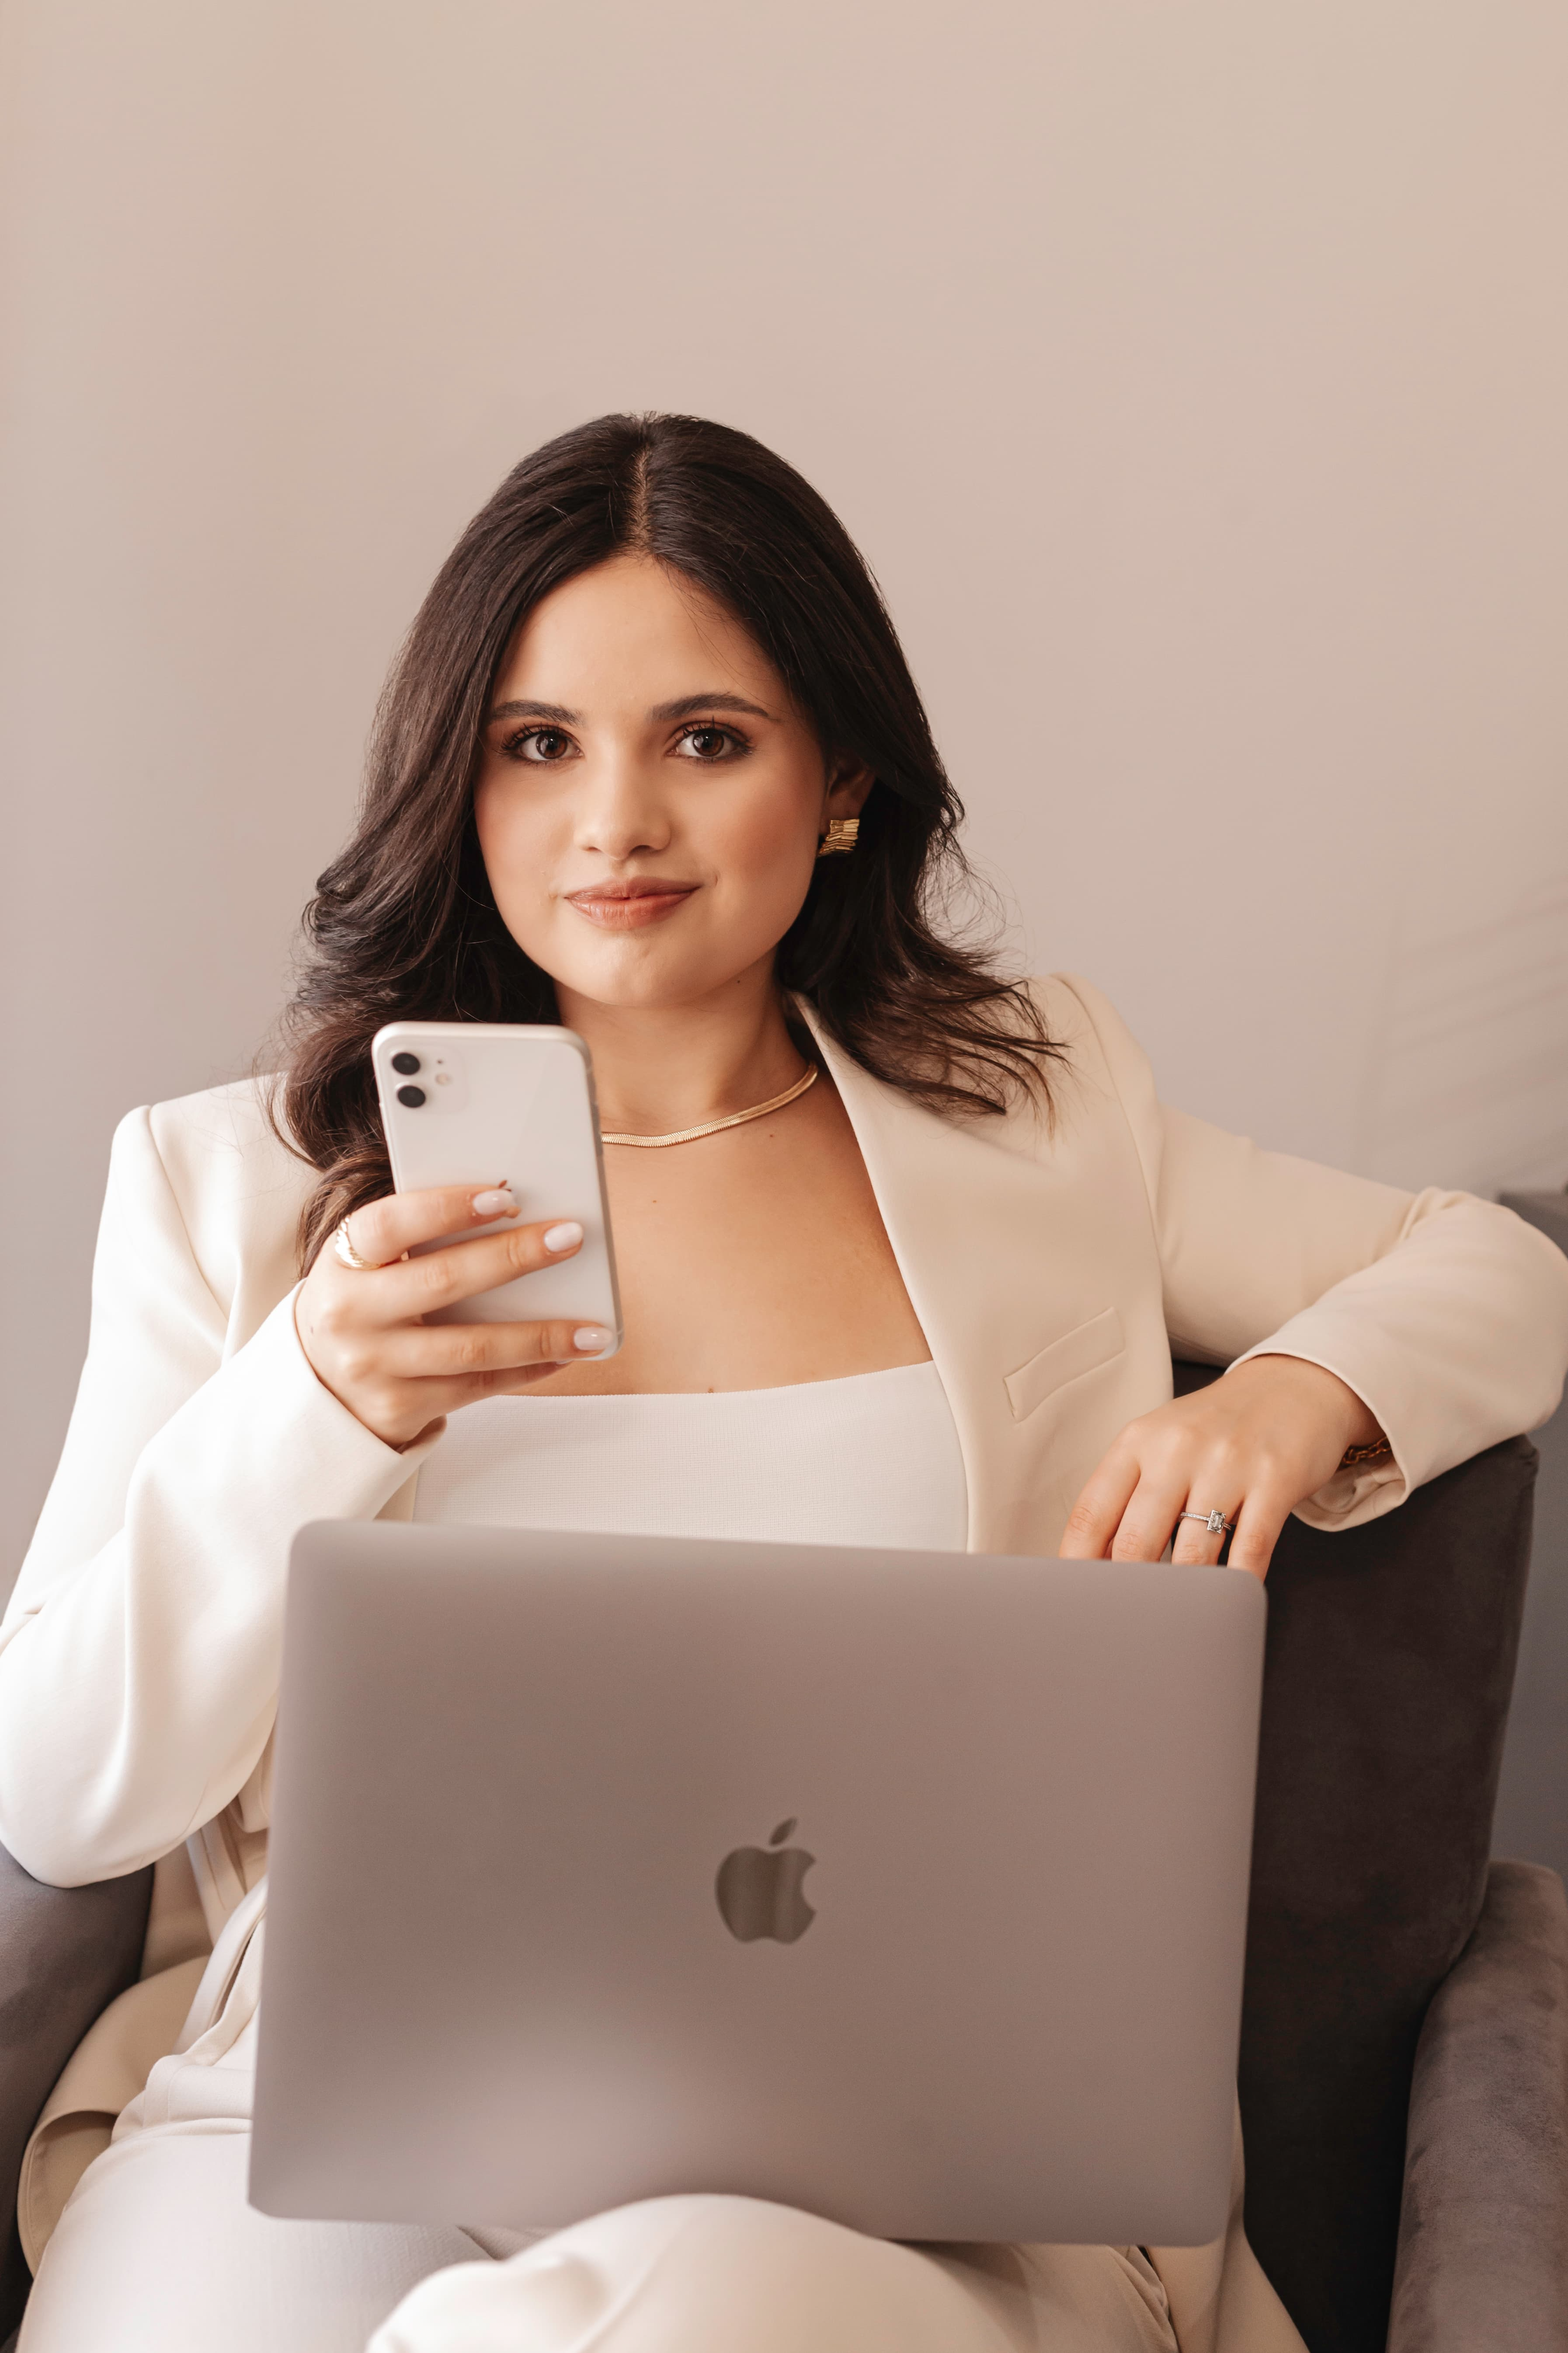
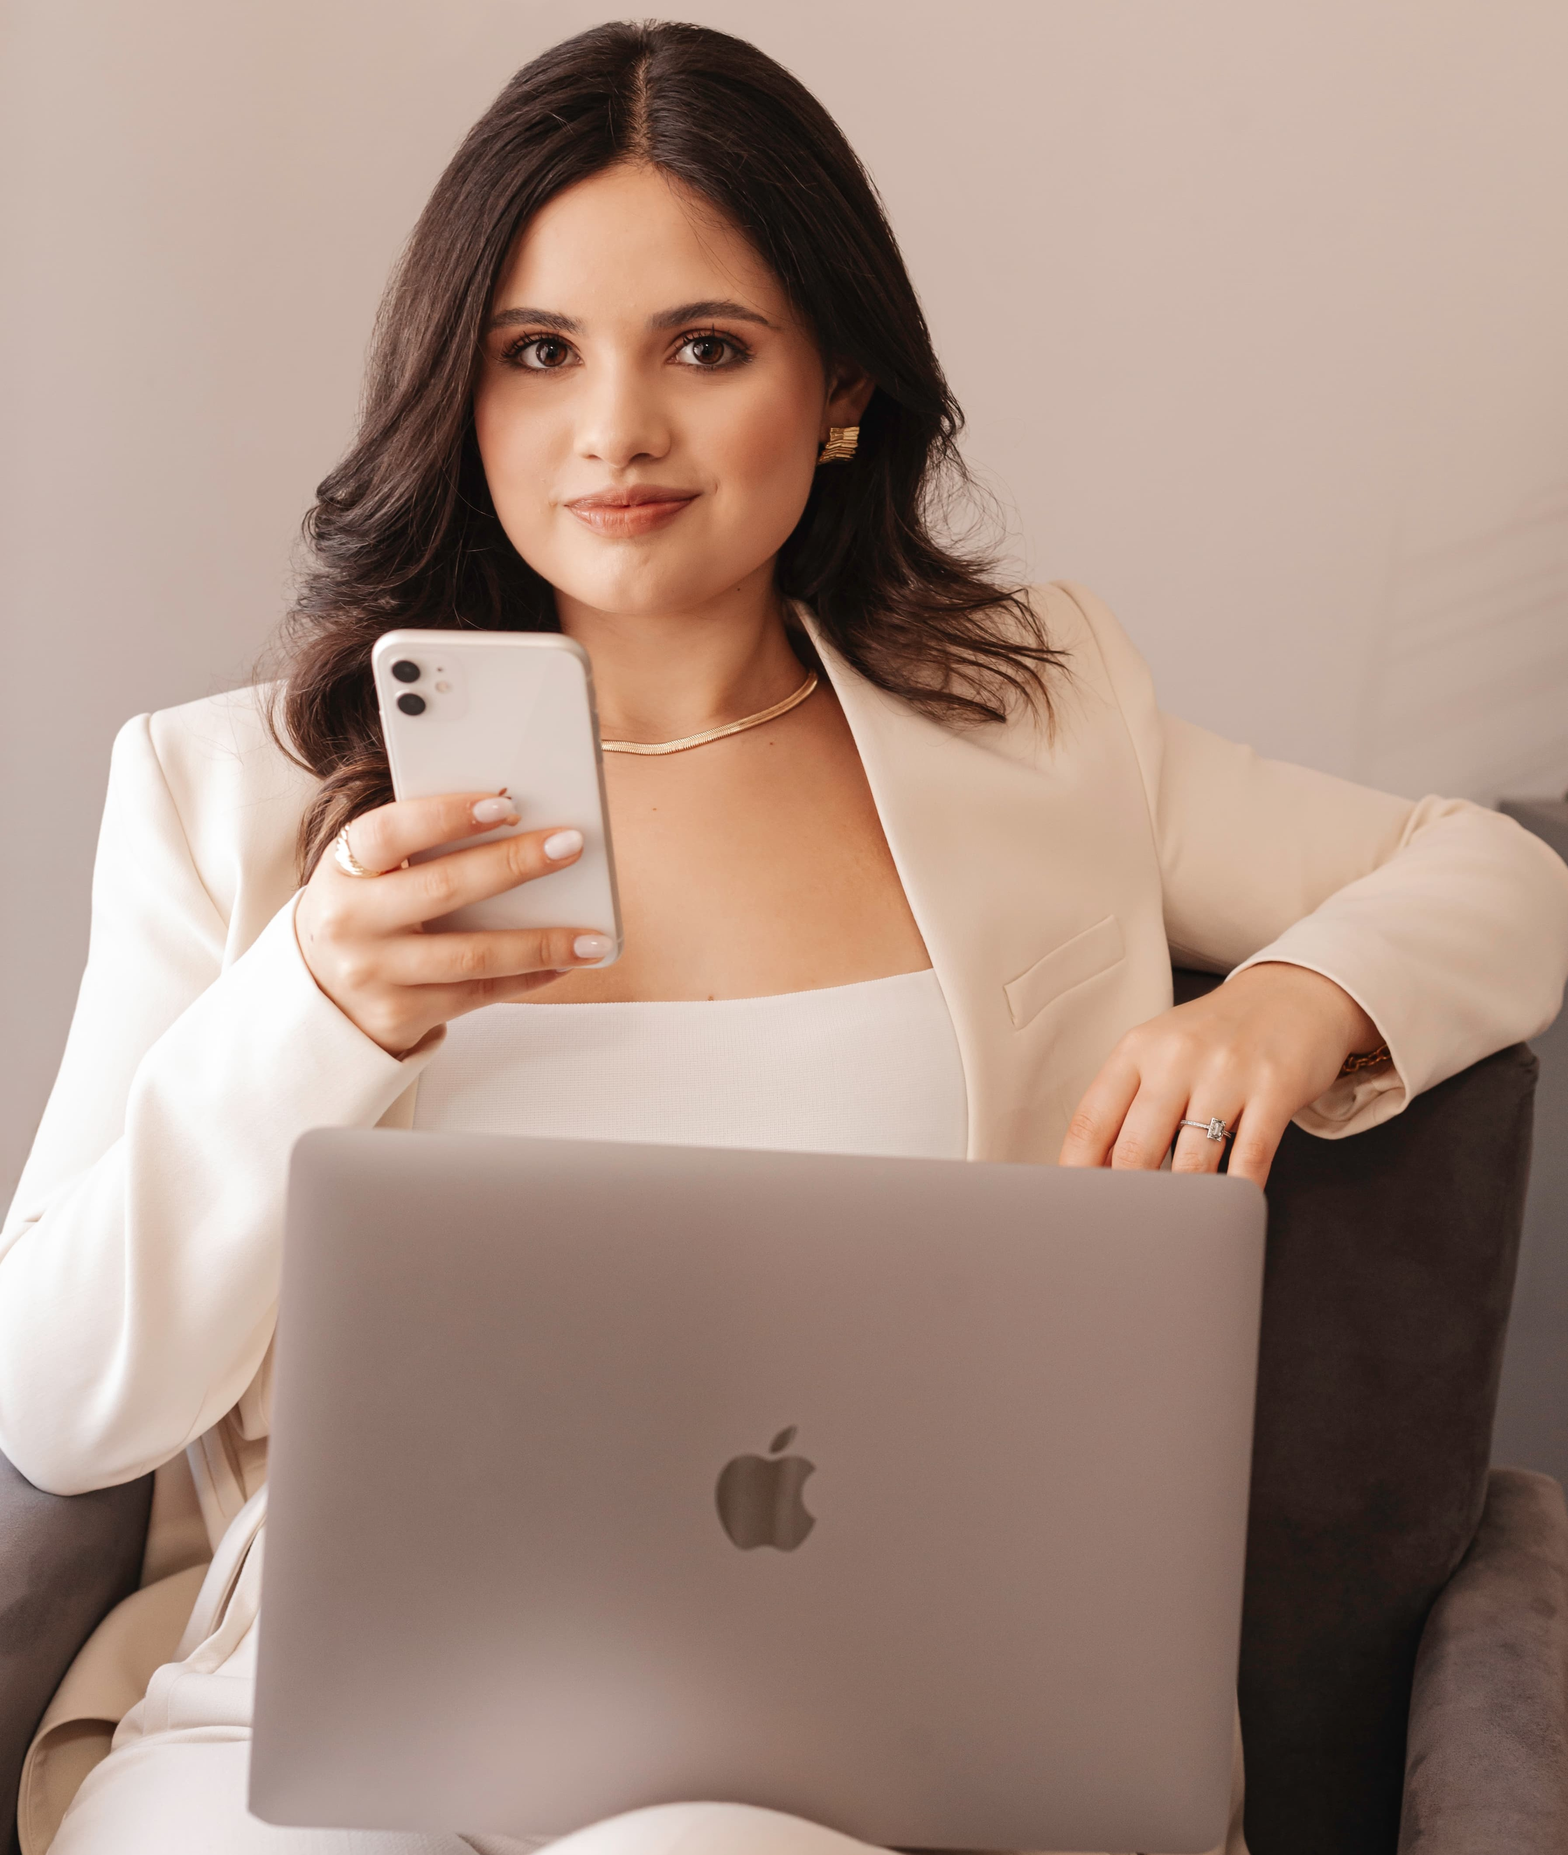
Ultimas atualizações
novas

diff --git a/index.html b/index.html
@@ -97,6 +97,10 @@
             animation: spin-slow 20s linear infinite;
         }
 
+        .inline-block.bg-primary.text-white.font-semibold.py-2.px-5.rounded-full.text-sm {
+    background-color: #c5a47e;
+}
+
 
         @media (min-width: 768px) { /* Tailwind's md breakpoint */
             .hero-desktop-bg {
@@ -111,37 +115,59 @@
 <body class="antialiased">
 
     <!-- HERO SECTION -->
-    <section class="overflow-hidden relative hero-desktop-bg">
-        <div class="container mx-auto px-6">
-            <div class="grid md:grid-cols-2 items-center min-h-0 md:min-h-[90vh] gap-8">
-                <!-- Text Content Column -->
-                <div class="pt-16 pb-12 md:py-24 text-center md:text-left">
-                    <p class="font-bold text-xl md:text-2xl mb-4 reveal" style="color: var(--color-primary);">[ ● Funil Social Pro ]</p>
-                    <h1 class="text-2xl sm:text-3xl md:text-4xl font-semibold leading-snug md:leading-tight reveal" style="transition-delay: 150ms;">
-                        Copie e cole a <span class="font-serif" style="color: var(--color-primary);">estratégia</span> que me fez fechar contratos de +R$2mil como Social Media e feche com novos clientes em 14 dias.
-                    </h1>
-                    <p class="mt-6 text-sm sm:text-base md:text-[1.05rem] text-text-muted max-w-lg mx-auto md:mx-0 reveal" style="transition-delay: 300ms;">
-                        Um método com previsibilidade, onde você não depende de indicações nem da sorte.
-                    </p>
-                     <!-- Mobile-only Image Container -->
-                    <div class="md:hidden text-center my-6">
-                        <img src="mobile-hero.jpg" alt="Mentora Carla Estivalet" class="inline-block w-full max-w-xs h-auto object-cover rounded-3xl shadow-xl aspect-square">
+    <section class="overflow-hidden relative">
+        <!-- Desktop Hero -->
+        <div class="hidden md:block hero-desktop-bg">
+            <div class="container mx-auto px-6">
+                <div class="grid md:grid-cols-2 items-center min-h-0 md:min-h-[90vh] gap-8">
+                    <!-- Text Content Column -->
+                    <div class="py-24 text-center md:text-left">
+                        <p class="font-bold text-xl md:text-2xl mb-4 reveal" style="color: var(--color-primary);">[ ● Funil Social Pro ]</p>
+                        <h1 class="text-2xl sm:text-3xl md:text-4xl font-semibold leading-snug md:leading-tight reveal" style="transition-delay: 150ms;">
+                            Copie e cole a <span class="font-serif" style="color: var(--color-primary);">estratégia</span> que me fez fechar contratos de +R$2mil como Social Media e feche com novos clientes em 14 dias.
+                        </h1>
+                        <p class="mt-6 text-sm sm:text-base md:text-[1.05rem] text-text-muted max-w-lg mx-auto md:mx-0 reveal" style="transition-delay: 300ms;">
+                            Um método com previsibilidade, onde você não depende de indicações nem da sorte.
+                        </p>
+                        <a href="#pricing" class="mt-8 inline-block btn-primary shine-effect font-bold py-4 px-12 rounded-full text-lg reveal" style="transition-delay: 450ms;">
+                            Quero começar agora!
+                        </a>
                     </div>
-                    <a href="#pricing" class="mt-8 inline-block btn-primary shine-effect font-bold py-4 px-12 rounded-full text-lg reveal" style="transition-delay: 450ms;">
-                        Quero começar agora!
-                    </a>
-                </div>
-                <!-- Spacer Column (visible on desktop only) -->
-                <div class="hidden md:block">
-                    <!-- This is intentionally empty to let the background image show through -->
+                    <!-- Spacer Column (visible on desktop only) -->
+                    <div class="hidden md:block">
+                        <!-- This is intentionally empty to let the background image show through -->
+                    </div>
                 </div>
             </div>
+             <div class="absolute bottom-0 left-0 h-1 w-full" style="background-image: linear-gradient(to right, transparent, var(--color-primary), transparent);"></div>
         </div>
-        <div class="absolute bottom-0 left-0 h-1 w-full" style="background-image: linear-gradient(to right, transparent, var(--color-primary), transparent);"></div>
+
+        <!-- Mobile Hero -->
+        <div class="md:hidden container mx-auto px-6 py-16 text-center">
+            <div class="inline-block bg-primary text-white font-semibold py-2 px-5 rounded-full text-sm">
+                COPIE & COLE A
+            </div>
+            <h1 class="text-3xl font-semibold leading-tight mt-4">
+                <span class="font-serif" style="color: var(--color-primary);">Estratégia</span> que me<br>fez fechar contratos
+            </h1>
+            <p class="mt-3 text-base text-text-muted">
+                de +R$2mil como Social Media e<br>feche com novos clientes em 14 dias
+            </p>
+            <div class="my-6 w-4/5 h-px mx-auto" style="background-color: var(--color-primary);"></div>
+            <p class="text-base font-semibold italic" style="color: var(--color-primary);">
+                Método com previsibilidade, não depende de indicação nem da sorte!
+            </p>
+            <div class="mt-8">
+                <img src="mobile-hero.jpg" alt="Mentora Carla Estivalet" class="inline-block w-full max-w-sm h-auto object-cover rounded-3xl shadow-xl">
+            </div>
+            <a href="#pricing" class="mt-8 w-full max-w-sm mx-auto inline-block btn-primary shine-effect font-bold py-4 px-12 rounded-full text-lg">
+                Quero começar agora!
+            </a>
+        </div>
     </section>
 
     <!-- SOCIAL PROOF CAROUSEL SECTION -->
-    <section class="pt-20 pb-5 md:py-20">
+    <section class="pt-6 pb-5 md:py-20">
         <div class="container mx-auto px-6">
             <div class="text-center max-w-3xl mx-auto">
                 <h2 class="font-serif text-4xl md:text-5xl font-bold reveal">Resultados reais que você pode</h2>
@@ -454,7 +480,7 @@
     </section>
 
     <!-- Mobile Separator -->
-    <div class="container mx-auto px-6 md:hidden">
+    <div class="container mx-auto px-6 py-0 md:hidden">
         <div class="w-full border-t border-gray-200"></div>
     </div>
 
@@ -486,7 +512,7 @@
     </section>
 
     <!-- Mobile Separator -->
-    <div class="container mx-auto px-6 md:hidden">
+    <div class="container mx-auto px-6 py-0 md:hidden">
         <div class="w-full border-t border-gray-200"></div>
     </div>
 
